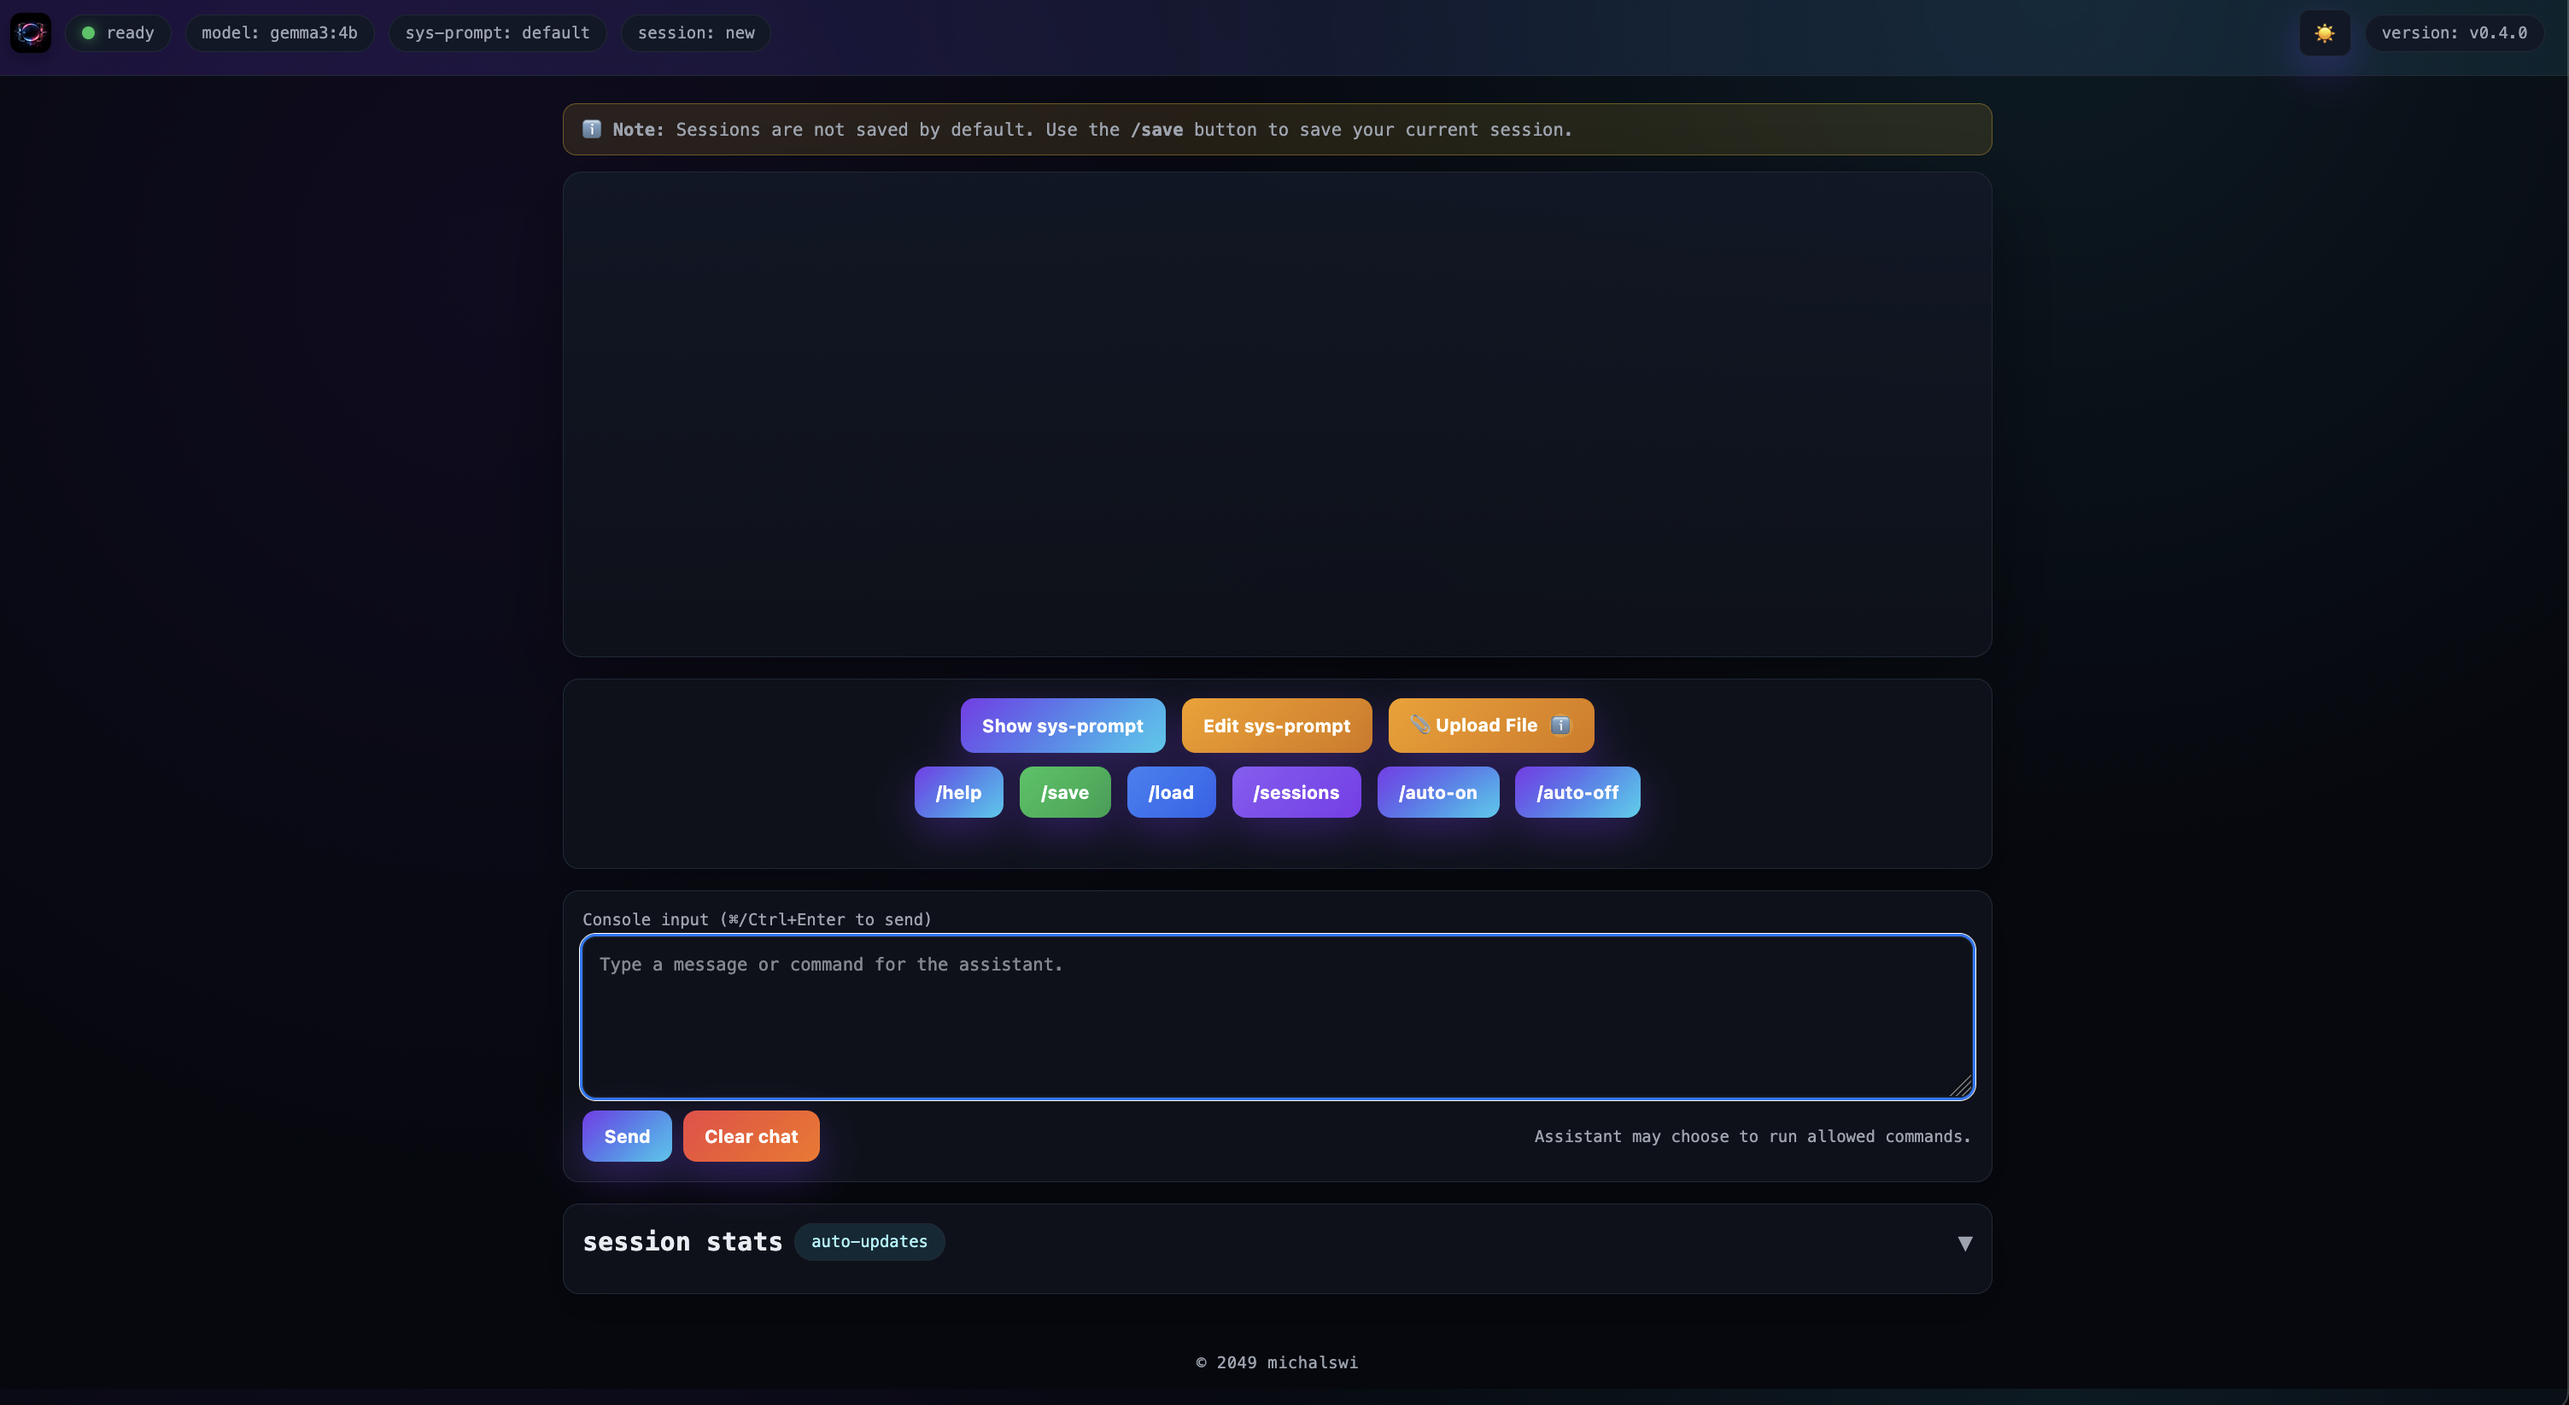
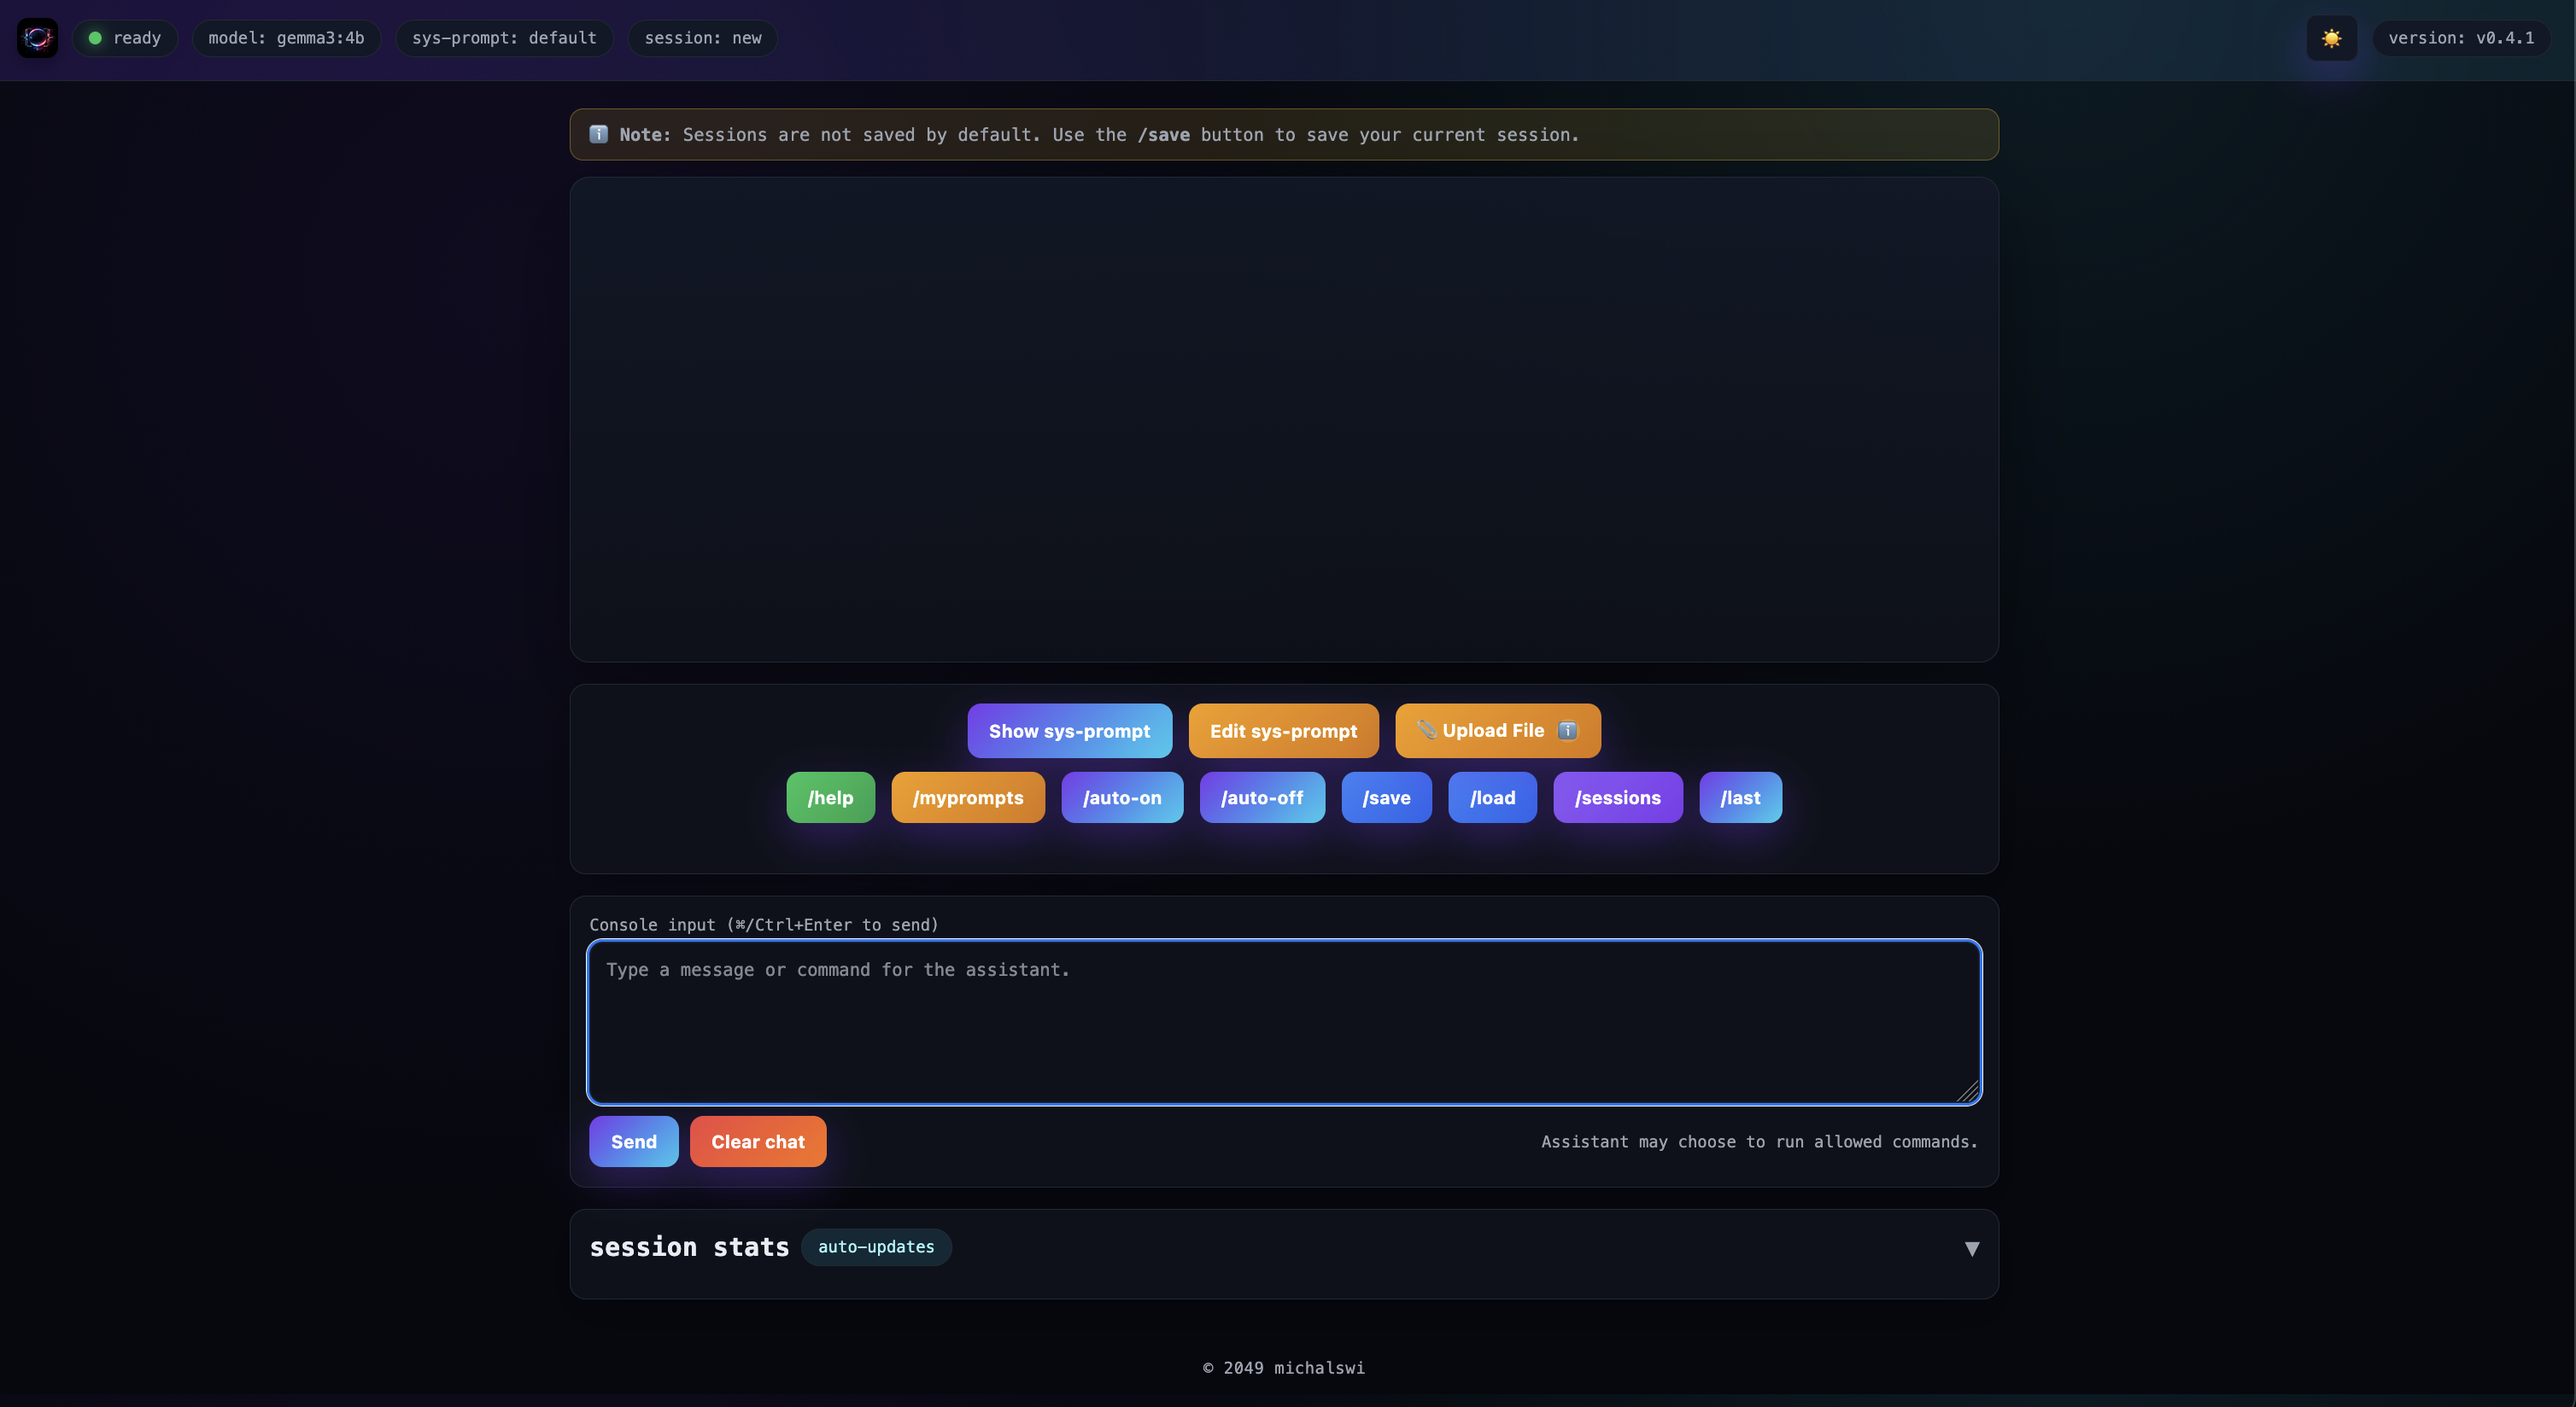
myprompts + fixes

diff --git a/vars.go b/vars.go
@@ -10,7 +10,7 @@ const (
 	separator = "------------------------------------------------------------"
 )
 
-var version = "v0.4.0"
+var version = "v0.4.1"
 
 var defaultSystemPrompt = `
 You are a helpful, general-purpose assistant.

diff --git a/README.md b/README.md
@@ -40,7 +40,7 @@ $ ./owrap
 ██║   ██║██║███╗██║██╔══██╗██╔══██║██╔═══╝
 ╚██████╔╝╚███╔███╔╝██║  ██║██║  ██║██║
  ╚═════╝  ╚══╝╚══╝ ╚═╝  ╚═╝╚═╝  ╚═╝╚═╝
-	v0.4.0 - @michalswi
+	v0.4.1 - @michalswi
 
 Type '/q' to quit.
 Type '/h' for help/shortcuts.
@@ -119,7 +119,7 @@ $ ./owrap
 ██║   ██║██║███╗██║██╔══██╗██╔══██║██╔═══╝
 ╚██████╔╝╚███╔███╔╝██║  ██║██║  ██║██║
  ╚═════╝  ╚══╝╚══╝ ╚═╝  ╚═╝╚═╝  ╚═╝╚═╝
-	v0.4.0 - @michalswi
+	v0.4.1 - @michalswi
 
 Type '/q' to quit.
 Type '/h' for help/shortcuts.
@@ -138,7 +138,7 @@ $ SYSTEM_PROMPT=./prompts/(...).txt ./owrap
 ██║   ██║██║███╗██║██╔══██╗██╔══██║██╔═══╝
 ╚██████╔╝╚███╔███╔╝██║  ██║██║  ██║██║
  ╚═════╝  ╚══╝╚══╝ ╚═╝  ╚═╝╚═╝  ╚═╝╚═╝
-	v0.4.0 - @michalswi
+	v0.4.1 - @michalswi
 
 Type '/q' to quit.
 Type '/h' for help/shortcuts.
@@ -214,6 +214,7 @@ The system prompt defines the assistant's behavior and capabilities. The default
 - **At startup**: `SYSTEM_PROMPT=./prompts/shell_command_assistant.txt ./owrap`
 - **At runtime**: Use `/editsysprompt` (terminal) or `Edit sys-prompt` button (web UI)
 - **View current**: Use `/sysprompt` (terminal) or `Show sys-prompt` button (web UI)
+- **Review your prompts**: Use `/myprompts` (terminal) or `/myprompts` button (web UI) to see all your prompts from the current session. In web UI, click any prompt to reuse it. They might be saved (/save) and restored (/load) when restoring the session.
 
 **Creating custom prompts**: Create a `.txt` file in the `./prompts/` directory with your instructions. The prompt should define the assistant's role, capabilities, and response format
 
@@ -230,7 +231,7 @@ $ ./owrap
 ██║   ██║██║███╗██║██╔══██╗██╔══██║██╔═══╝
 ╚██████╔╝╚███╔███╔╝██║  ██║██║  ██║██║
  ╚═════╝  ╚══╝╚══╝ ╚═╝  ╚═╝╚═╝  ╚═╝╚═╝
-	v0.4.0 - @michalswi
+	v0.4.1 - @michalswi
 
 Type '/q' to quit.
 Type '/h' for help/shortcuts.
